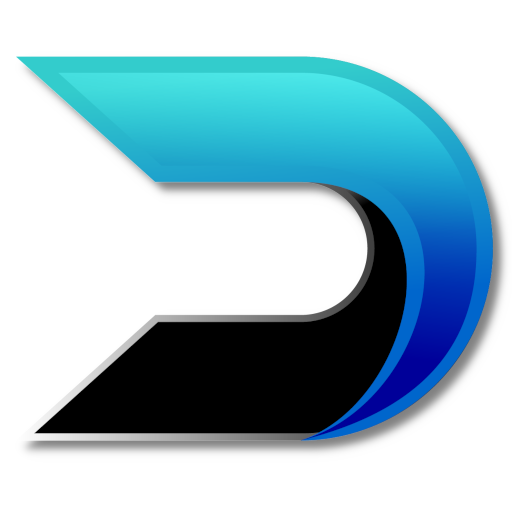
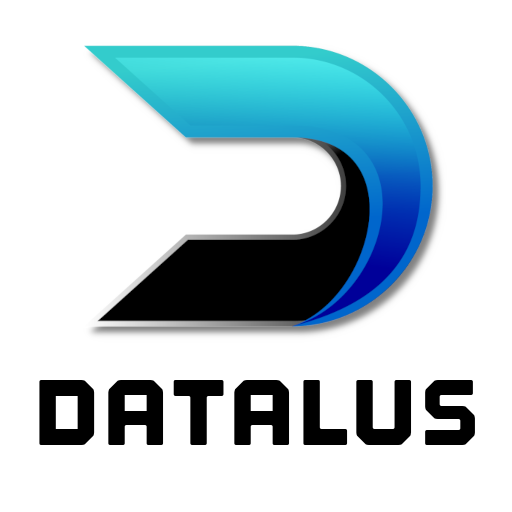
[BHM-AL-2022] Adding speakers and two new sponsors. (#10924)
* Add Fetch Rewards to sponsor list for Birmingham, AL 2022 event

* Fix Fetch Rewards logo file

* Change twitter attribute from url to handle

* fix jj bio

* Add Andrew Poland image, speaker, talk

* add Justin Reock speaker, talk, and photo.

* Add Jeremy Meiss speaker and talk.

* add PJ Hagerty speaker and talk.

* Add speaker lesley cordero and talk

* Add Bryan Oliver and Kingdon Barrett.

* Add richard lewis talk

* add tyler martin talk

* update text of tyler martin talk

* Add JR Baeudoin talk

* Add Brandon Morgado talk.

* add Aaron Hanson and Dan Kirpatrick talk.

* update aaron hanson

* Adding ADTravel as bronze sponsor

* remove default image path for Brandon's image

* update datalus logo

diff --git a/content/events/2022-birmingham-al/speakers/jj-asghar.md b/content/events/2022-birmingham-al/speakers/jj-asghar.md
@@ -7,4 +7,4 @@ linktitle = "jj-asghar"
 
 +++
 
-JJ works as a Developer Advocate representing the IBM Cloud all over the world. He mainly focuses on the IBM Kubernetes Service and OpenShift trying to make companies and users have a successful onboarding to the Cloud Native ecosystem. He’s also beenEnter speaker talk title (return for none):  known in the DevOps tooling ecosystem and generalized Linux communities. If he isn’t building automation to make his work streamlined he’s building the groundwork to do just that.
+JJ works as a Developer Advocate representing the IBM Cloud all over the world. He mainly focuses on the IBM Kubernetes Service and OpenShift trying to make companies and users have a successful onboarding to the Cloud Native ecosystem. He’s also been known in the DevOps tooling ecosystem and generalized Linux communities. If he isn’t building automation to make his work streamlined he’s building the groundwork to do just that.

diff --git a/content/events/2022-birmingham-al/speakers/richard-lewis.md b/content/events/2022-birmingham-al/speakers/richard-lewis.md
@@ -1,0 +1,10 @@
++++
+Title = "Richard Lewis"
+Twitter = "gogorichie"
+image = "richard_lewis.jpg"
+type = "speaker"
+linktitle = "richard-lewis"
+
++++
+
+Richard is a DevOps Consultant with 3Cloud Solutions with over 20 years of combined operations and software development experience. He focuses on the areas of DevOps, software delivery automation, observability of the software, and infrastructure within the life cycle. Outside of work Richard volunteers with an organization called Junior Chamber International (JCI) also known as the Jaycees and has served many years on their executive board. You can find him regularly speaking and attending user groups in the greater Chicagoland area. He loves talking about Observability, Cloud Migration, DevOps Transformation battle stories among many other things.

diff --git a/content/events/2022-birmingham-al/speakers/aaron-hanson.md b/content/events/2022-birmingham-al/speakers/aaron-hanson.md
@@ -1,0 +1,12 @@
++++
+Title = "Aaron Hanson"
+Twitter = "Krimgor"
+image = ""
+type = "speaker"
+linktitle = "aaron-hanson"
+
++++
+
+Aaron Hanson is an experienced DevOps Engineer with 10 years of professional experience in Enterprise Linux Environments. Currently he works as a Senior DevOps Engineer for Caris Life Sciences specializing in Kubernetes, Containerization, and DevOps Engineering. Aaron began working in the Web Hosting field at the age of 18 and has worked in varying roles in both the Web Hosting and Healthcare industries.
+
+With a passion for Technology and all things Linux, he was quick to be drawn to Kubernetes and the concepts of Cloud and Hybrid Cloud Computing. Aaron is new to the conference circuit and this will be his first presentation at a convention.

diff --git a/content/events/2022-birmingham-al/speakers/dan-kirpatrick.md b/content/events/2022-birmingham-al/speakers/dan-kirpatrick.md
@@ -1,0 +1,10 @@
++++
+Title = "Dan Kirkpatrick"
+Twitter = "kirkpatrick_dan"
+image = ""
+type = "speaker"
+linktitle = "dan-kirpatrick"
+
++++
+
+Dan Kirkpatrick is an independent Kubernetes and DevOps consultant living in Houston, Texas. Dan’s career spans some 25 years as a software developer and six years working with Kubernetes in production. With over 30 years over experience Dan Kirkpatrick brings a swathe of experience having worked in fields such as Healthcare, Transportation, Banking, and Energy. Dan has been operating Kubernetes in enterprise production environments for the past 6 years.

diff --git a/content/events/2022-birmingham-al/speakers/pj-hagerty.md b/content/events/2022-birmingham-al/speakers/pj-hagerty.md
@@ -1,0 +1,10 @@
++++
+Title = "PJ Hagerty"
+Twitter = "aspleenic"
+image = "pj_hagerty.jpg"
+type = "speaker"
+linktitle = "pj-hagerty"
+
++++
+
+PJ is the founder of DevRelate.io, board member of Open Sourcing Mental Illness (OSMIhelp.org), and Senior Developer Advocate at Mattermost. He is an organizer of DevOps Days Buffalo, CodeDaze, and ElixirDaze. Additionally, PJ is a developer, writer, speaker, and musician. He is known to travel the world speaking about programming and the way people think and interact. He is also known for wearing hats.

diff --git a/content/events/2022-birmingham-al/speakers/lesley-cordero.md b/content/events/2022-birmingham-al/speakers/lesley-cordero.md
@@ -1,0 +1,10 @@
++++
+Title = "Lesley Cordero"
+Twitter = "lesleyclovesyou"
+image = "lesley_cordero.jpg"
+type = "speaker"
+linktitle = "lesley-cordero"
+
++++
+
+Lesley Cordero is currently a tech lead at an edtech company, Teachers Pay Teachers. She has spent the majority of her career on edtech teams as an engineer, including Google for Education and other edtech startups. In her current role, she has focused on production readiness by bringing site reliability engineering practices such as SLOs, on-call improvements, and chaos engineering.

diff --git a/content/events/2022-birmingham-al/program/andrew-poland.md b/content/events/2022-birmingham-al/program/andrew-poland.md
@@ -1,0 +1,10 @@
++++
+Talk_date = ""
+Talk_start_time = ""
+Talk_end_time = ""
+Title = "Authorization and policy-as-code: A DevOps-friendly approach to Zero Trust"
+Type = "talk"
+Speakers = ["andrew-poland"]
++++
+
+Lift authorization policies out of applications and manage them using GitOps practices! In this talk we’ll examine policy-as-code workflow for an application using an Open Policy Agent authorization policy and demonstrate Open Source tools that help with getting these policies published and signed.

diff --git a/content/events/2022-birmingham-al/program/jr-baeudoin.md b/content/events/2022-birmingham-al/program/jr-baeudoin.md
@@ -1,0 +1,10 @@
++++
+Talk_date = ""
+Talk_start_time = ""
+Talk_end_time = ""
+Title = "Rendering 3D scenes with Blender on AWS Lambda, how can it possibly make sense?"
+Type = "talk"
+Speakers = ["jr-baeudoin"]
++++
+
+We built a service that renders 3D scenes with Blender on AWS Lambda. It reduced the time between the moment when physical materials were scanned and their availability in a design tool. I will share the architecture of this system as well as the analysis of the different solutions we considered.

diff --git a/content/events/2022-birmingham-al/speakers/jr-beaudoin.md b/content/events/2022-birmingham-al/speakers/jr-beaudoin.md
@@ -1,0 +1,10 @@
++++
+Title = "Jean-Rémi Beaudoin"
+Twitter = "jiherr"
+image = "jr_beaudoin.jpg"
+type = "speaker"
+linktitle = "jr-beaudoin"
+
++++
+
+JR (short for Jean-Rémi) is the CTO of Theodo in New York, a software consultancy. He moved to the US in 2018 after living in London for 2 years but is originally from France which explains his passion for cooking. When he isn’t setting up software architectures or creating interfaces for his clients, he enjoys exploring the US with his wife Sara.

diff --git a/content/events/2022-birmingham-al/program/aaron-hanson.md b/content/events/2022-birmingham-al/program/aaron-hanson.md
@@ -1,0 +1,10 @@
++++
+Talk_date = ""
+Talk_start_time = ""
+Talk_end_time = ""
+Title = "Taking Control of your Identity with Keycloak"
+Type = "talk"
+Speakers = ["aaron-hanson","dan-kirpatrick"]
++++
+
+What if IAM weren’t so difficult? Keycloak is an open-source identity provider that supports multi-tenancy, SSO (OIDC & SAML), MFA, and integrates with LDAP and Active Directory. Learn how to integrate Keycloak with Kubernetes to provide an enterprise-grade identity solution for your organization.

diff --git a/content/events/2022-birmingham-al/program/tyler-martin.md b/content/events/2022-birmingham-al/program/tyler-martin.md
@@ -1,0 +1,10 @@
++++
+Talk_date = ""
+Talk_start_time = ""
+Talk_end_time = ""
+Title = "Nurturing and Cultivating Collaborative Work Tendencies Remotely"
+Type = "talk"
+Speakers = ["tyler-martin"]
++++
+
+How often do you feel helpless while working remotely and what can we do about it? That’s the challenge that we have all faced during the pandemic. My goal for this speech is to act as a catalyst for cultural change and offer solutions to facilitate collaborative work environments while remote.

diff --git a/content/events/2022-birmingham-al/program/lesley-cordero.md b/content/events/2022-birmingham-al/program/lesley-cordero.md
@@ -1,0 +1,10 @@
++++
+Talk_date = ""
+Talk_start_time = ""
+Talk_end_time = ""
+Title = "Effective Observability in a Microservices Architecture"
+Type = "talk"
+Speakers = ["lesley-cordero"]
++++
+
+This talk will focus on how to create an effective monitoring system across an organization’s entire microservice architecture. This talk combines principals from effective monitoring with microservice architecture patterns to define criteria that will set microservice organizations up for success.
